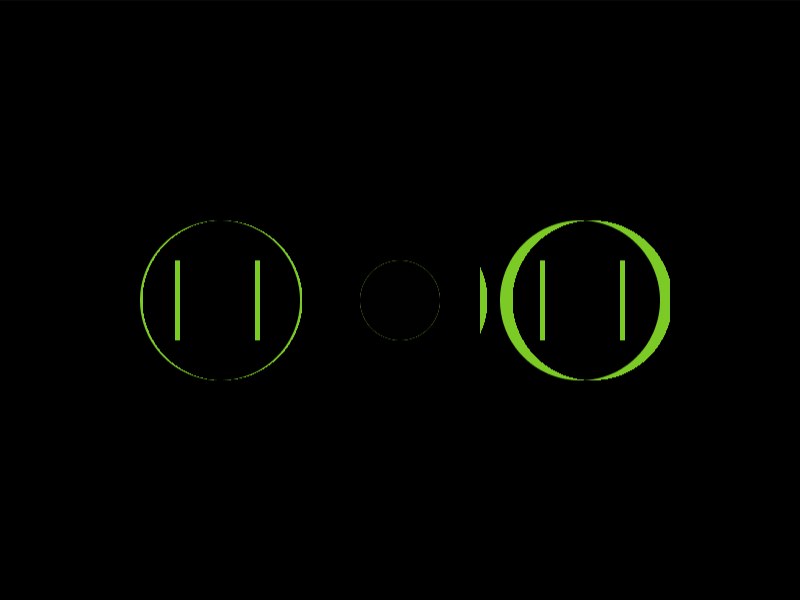
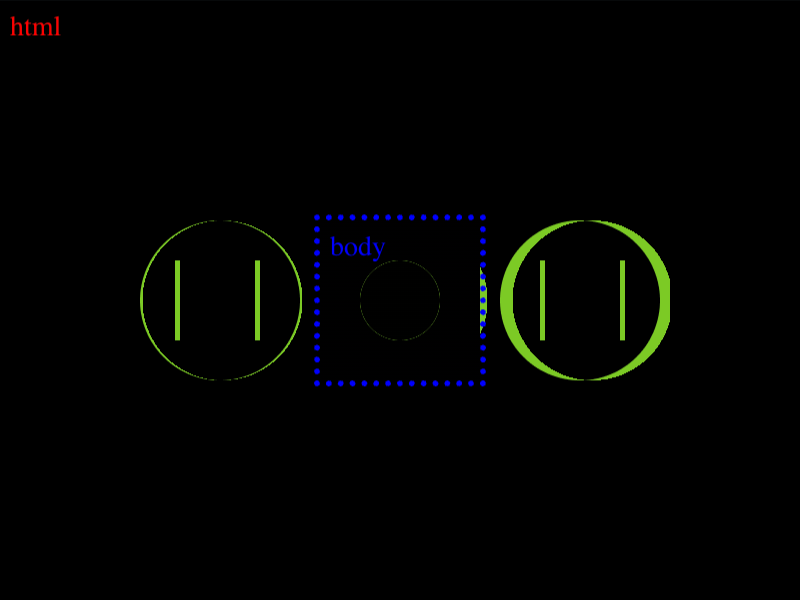
Score: 654.05, Characters: 210 (100.00% match) - CSSHub

Changed region(s): [[0.375, 0.36, 0.625, 0.63], [0.4062, 0.63, 0.5938, 0.66], [0.0, 0.03, 0.0938, 0.06]]

diff --git a/Daily Targets/2026-08-14/README.md b/Daily Targets/2026-08-14/README.md
@@ -22,7 +22,7 @@ Challenge: <https://cssbattle.dev/play/tX0iC11qNcPozRZ9qhRO>
 ## Code
 
 ```html
-<style>&{box-shadow:0 0 0 9in#6D1477;margin:0 65;background:radial-gradient(1q,#F5E3B5 5ch,#6D1477)0/5lh;*{margin:110 95;background:radial-gradient(1q,#6D1477 5vw,#F5E3B5);color:6D1477;box-shadow:-5lh 0 0-5vw,5lh 0 0-5vw
+<style>&{border:65px solid#6D1477;background:radial-gradient(.94px,#F5E3B5 5ch,#6D1477)0/5lh;*{margin:45 95;background:radial-gradient(.94px,#6D1477 5vw,#F5E3B5);color:6D1477;box-shadow:-5lh 0 0-5vw,5lh 0 0-5vw
 ```
 
 ## Prettified code
@@ -30,12 +30,11 @@ Challenge: <https://cssbattle.dev/play/tX0iC11qNcPozRZ9qhRO>
 ```html
 <style>
 & {
-  box-shadow: 0 0 0 9in #6d1477;
-  margin: 0 65;
-  background: radial-gradient(1Q, #f5e3b5 5ch, #6d1477) 0 / 5lh;
+  border: 65px solid #6d1477;
+  background: radial-gradient(0.94px, #f5e3b5 5ch, #6d1477) 0 / 5lh;
   * {
-    margin: 110 95;
-    background: radial-gradient(1Q, #6d1477 5vw, #f5e3b5);
+    margin: 45 95;
+    background: radial-gradient(0.94px, #6d1477 5vw, #f5e3b5);
     color: 6D1477;
     box-shadow:
       -5lh 0 0 -5vw,

diff --git a/README.md b/README.md
@@ -188,7 +188,7 @@ Note - I have not yet complete all the challenges.
 <li><a href="./Daily%20Targets/2026-08-11/">Aug 11, 2026</a> (167 Characters)</li>
 <li><a href="./Daily%20Targets/2026-08-12/">Aug 12, 2026</a> (224 Characters)</li>
 <li><a href="./Daily%20Targets/2026-08-13/">Aug 13, 2026</a> (193 Characters)</li>
-<li><a href="./Daily%20Targets/2026-08-14/">Aug 14, 2026</a> (220 Characters)</li>
+<li><a href="./Daily%20Targets/2026-08-14/">Aug 14, 2026</a> (210 Characters)</li>
 </ul>
 </details>
 </li>
